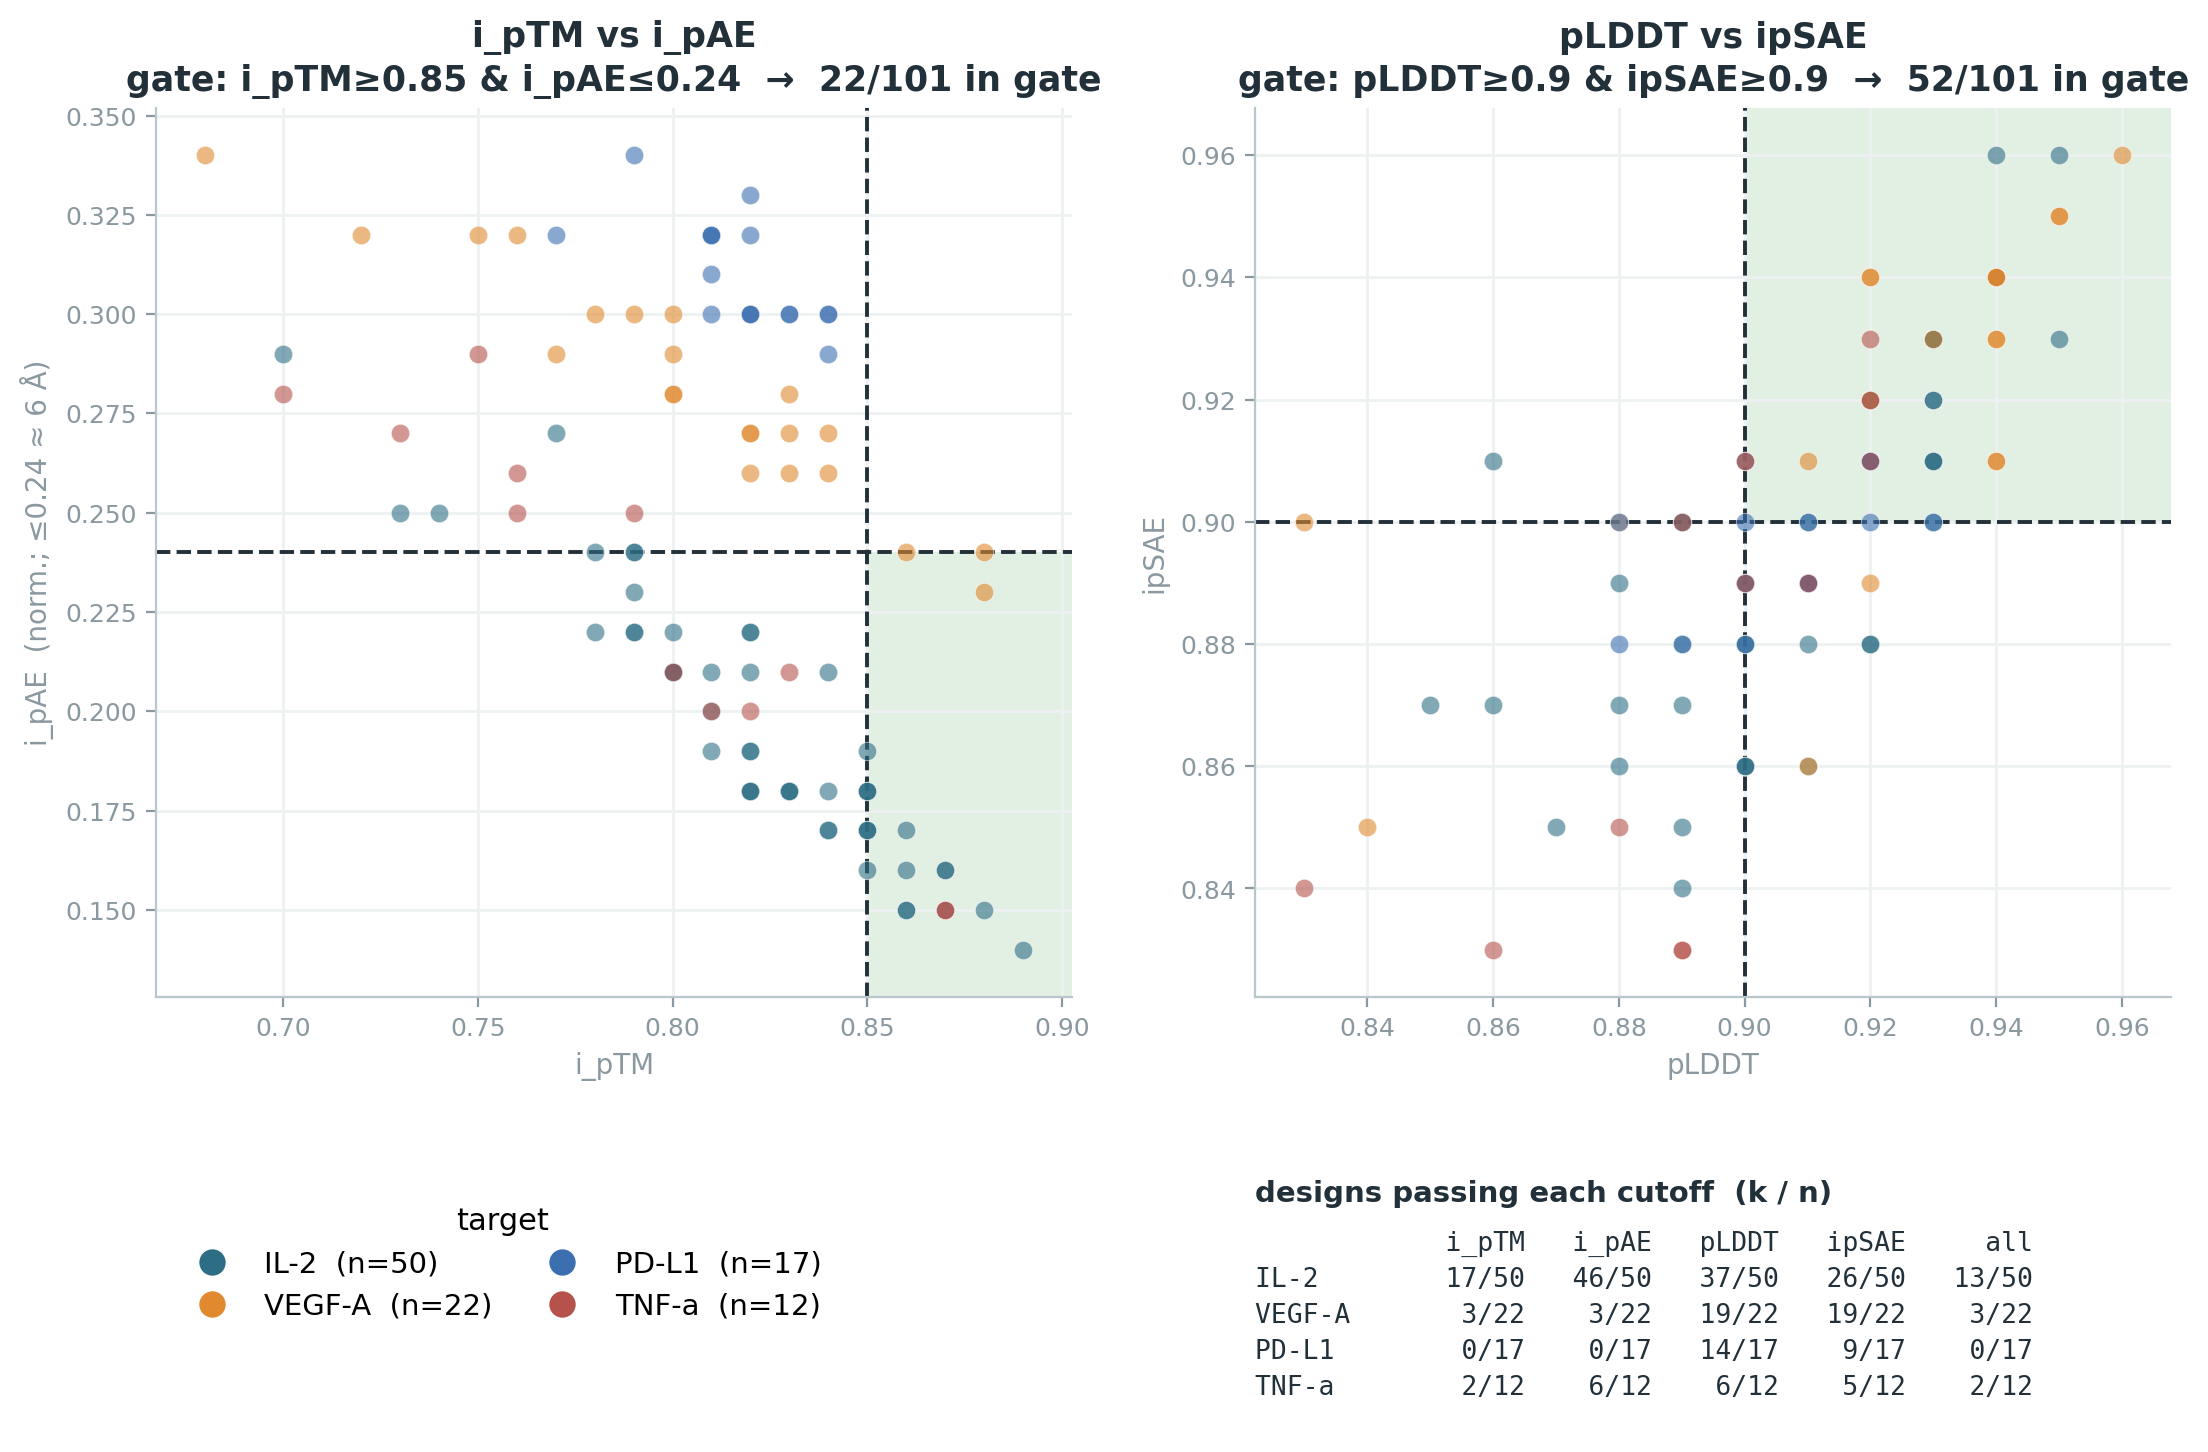
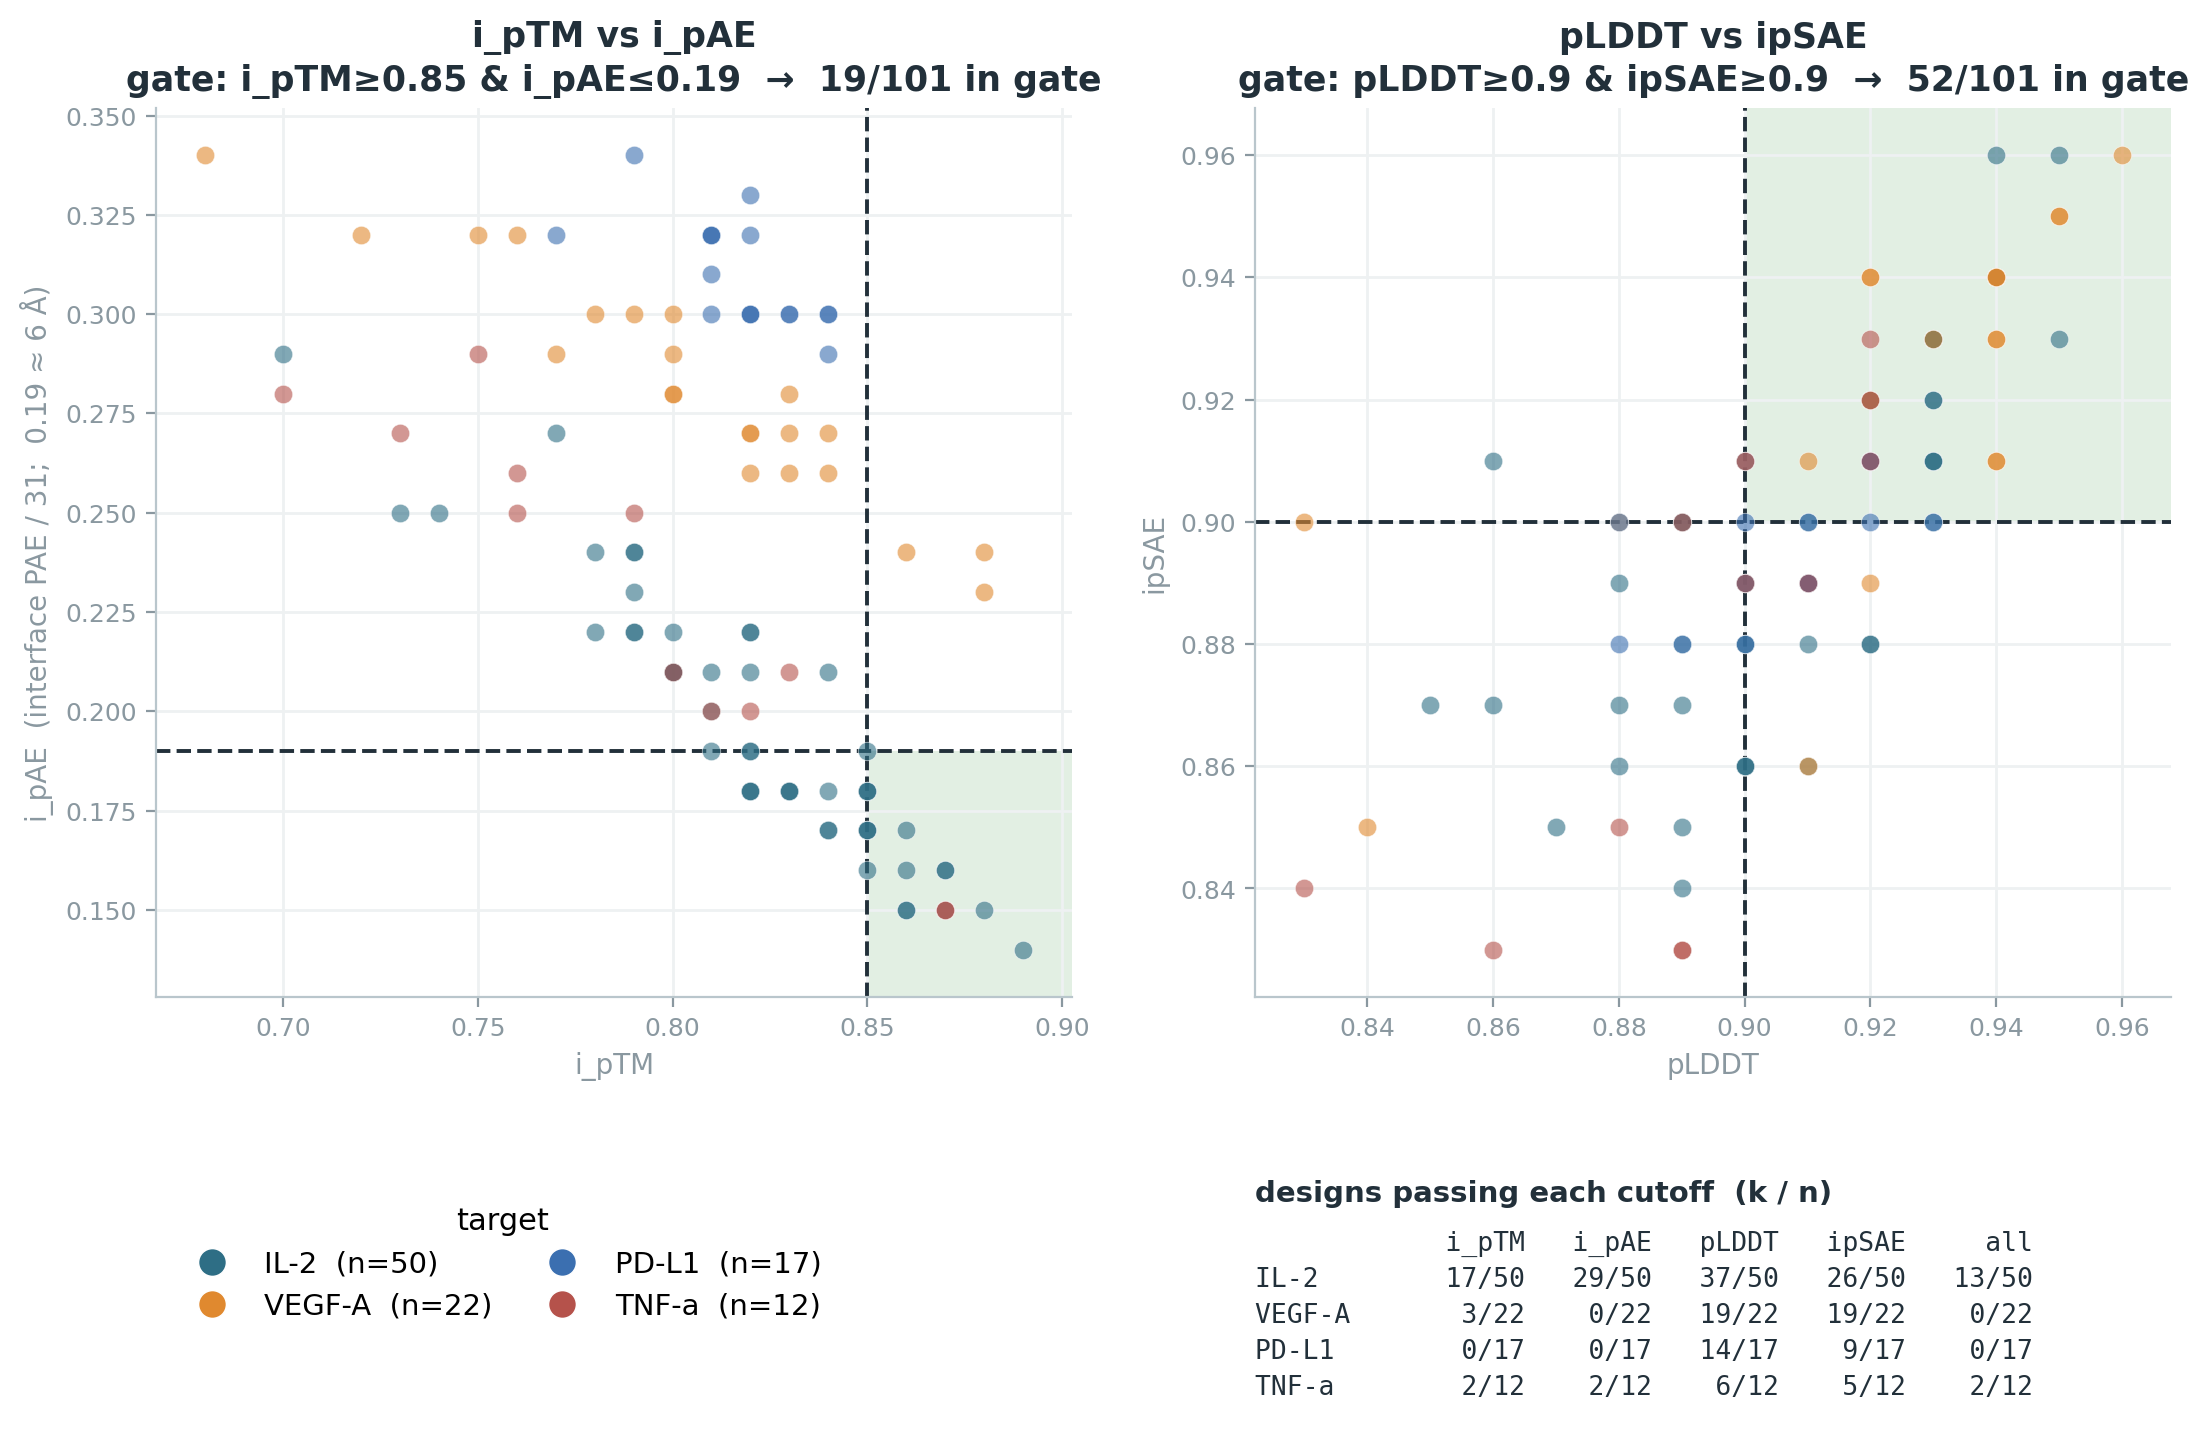
Correct i_pAE normalization: divisor is 31 (ColabDesign), not ~25
BindCraft's i_pAE comes from ColabDesign get_pae_loss = get_pae(...) / 31.0, so
6 A maps to i_pAE = 0.19, not 0.24. Update the figure cutoff to 0.19, fix the
axis label to reference the interface-PAE/31 definition, and note the atlas
inclusion filter iPAE < 0.35 in the README.

diff --git a/bindome_query.py b/bindome_query.py
@@ -67,15 +67,19 @@ CUT = "#22303a"  # dashed cutoff line
 TARGET_PALETTE = ["#2e6e85", "#e0892f", "#3b6fb0", "#b5524b",
                   "#2e7d32", "#7b5ea7", "#5a6b73", "#1a9aa5"]
 
-# Filter guides in the API's NORMALIZED 0–1 units. i_pAE is normalized ≈ Å/25,
-# so 6 Å ≈ 0.24 (empirically calibrated against raw PAE matrices) — NOT 0.6.
-THRESHOLDS = {"i_pTM": 0.85, "i_pAE": 0.24, "pLDDT": 0.90, "ipSAE": 0.90}
+# Filter guides in the API's normalized 0-1 units. i_pAE and pAE are BindCraft's
+# normalized interface PAE: ColabDesign divides the interface PAE by 31.0
+# (colabdesign/af/loss.py: get_pae_loss = get_pae(...) / 31.0), so 6 A maps to
+# i_pAE = 6/31 = 0.19. The Bindome already applies BindCraft's inclusion filter
+# iPAE < 0.35 (~10.9 A, median 0.23), so every design passes that; 0.19 is a
+# stricter triage bar.
+THRESHOLDS = {"i_pTM": 0.85, "i_pAE": 0.19, "pLDDT": 0.90, "ipSAE": 0.90}
 PASS_REGION = "#e2efe3"  # light green shade for the "pass" corner
 
 # Scatter panels: each pairs two metrics so all four cutoffs show as gate lines.
 SCATTER_PAIRS = [("i_pTM", "i_pAE"), ("pLDDT", "ipSAE")]
-# Nicer axis labels (keeps the i_pAE→Å calibration visible without a footer).
-AXIS_LABEL = {"i_pAE": "i_pAE  (norm.; ≤0.24 ≈ 6 Å)"}
+# Axis labels that keep the i_pAE -> Angstrom conversion visible on the plot.
+AXIS_LABEL = {"i_pAE": "i_pAE  (interface PAE / 31;  0.19 ≈ 6 Å)"}
 
 
 # ---------------------------------------------------------------------------

diff --git a/README.md b/README.md
@@ -87,12 +87,15 @@ All values are normalized to 0 to 1 as returned by the API. Higher is better for
 target each binder was designed against, which is handy for checking whether a
 candidate overlaps an epitope you care about.
 
-Cutoffs used in the figure (normalized units): `i_pTM ≥ 0.85`, `i_pAE ≤ 0.24`,
-`pLDDT ≥ 0.90`, `ipSAE ≥ 0.90`. One thing to watch: `i_pAE` is normalized to
-about Å/25 (I calibrated this against the raw PAE matrices), so `i_pAE ≤ 0.24` is
-roughly 6 Å, whereas `0.6` would be around 15 Å. To change any of them, edit
-`THRESHOLDS` in `bindome_query.py`. And again, these are in-silico BindCraft
-design metrics, not measured affinity.
+Cutoffs used in the figure (normalized units): `i_pTM ≥ 0.85`, `i_pAE ≤ 0.19`,
+`pLDDT ≥ 0.90`, `ipSAE ≥ 0.90`. About `i_pAE`: it is BindCraft's normalized
+interface PAE, defined in ColabDesign as the interface PAE divided by 31 (see
+`get_pae_loss` in `colabdesign/af/loss.py`). So `i_pAE ≤ 0.19` is about 6 Å, and
+`0.6` would be roughly 19 Å. Note that the Bindome already applies BindCraft's
+inclusion filter of `iPAE < 0.35` (about 11 Å, median 0.23 in the paper), so
+every design in the atlas has passed that; `0.19` is a stricter triage bar. Edit
+`THRESHOLDS` in `bindome_query.py` to change any of them. These are in-silico
+BindCraft design metrics, not measured affinity.
 
 ## API notes
 
